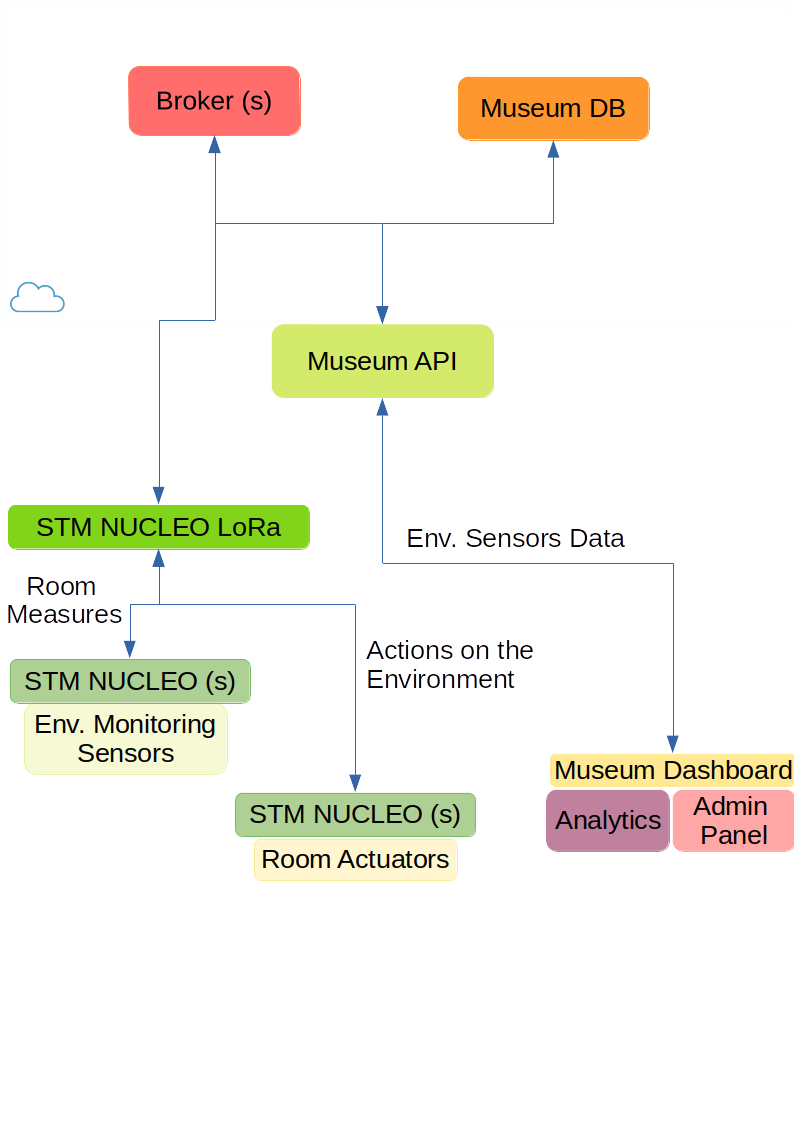
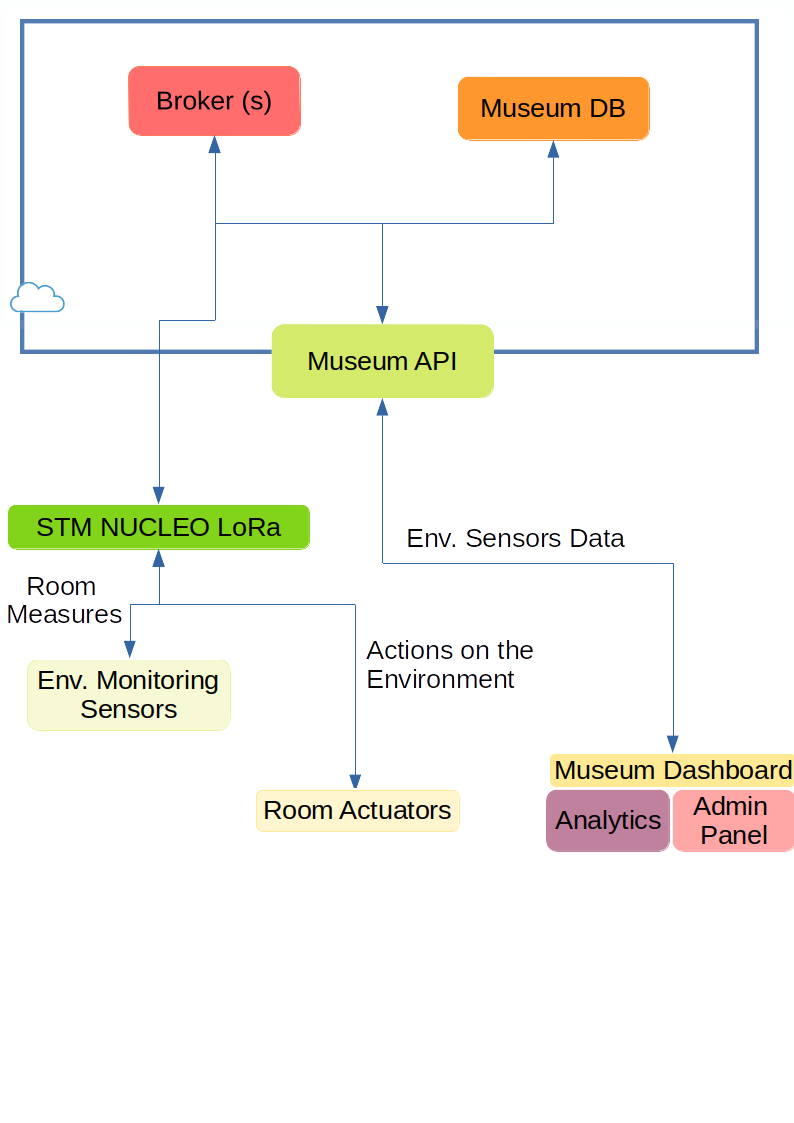
Arch changes

diff --git a/Evaluation.md b/Evaluation.md
@@ -6,7 +6,7 @@ This document is the second version of the Evaluation document for the SmartMuse
  <p align="center">
   <img src="img_new/competitors.PNG">
 </p>   
-Observing the competitors, the differences, the weak points and the strong points of our idea emerged. Many competitors have decided to add a module for the detection of light, we have deemed this feature useless as we will have a web platform to monitor climatic conditions asynchronously and with human in the loop. Some ideas use excell sheets and personal computers for data processing while we will rely on a special backend and obviously the cloud. Another difference is the ability to monitor air quality  a feature that could be added in the future. The idea that comes closest to ours includes the use of actuators for room cooling but unlike us, it always transmits data in real time, obviously using a much higher amount of data than ours. Another of our strengths is the use of technologies for the monitoring of loaned works of art, none of the previous ideas allows the curators of the pieces of art to remotely monitor the quality of the environment in which the piece is located.
+Observing the competitors, the differences, the weak points and the strong points of our idea emerged. Many competitors have decided to add a module for the detection of light, we have deemed this feature useless as we will have a web platform to monitor climatic conditions asynchronously and with human in the loop. Some ideas use Excell sheets and personal computers for data processing while we will rely on a special backend and obviously the cloud. Another difference is the ability to monitor air quality  a feature that could be added in the future. The idea that comes closest to ours includes the use of actuators for room cooling but unlike us, it always transmits data in real time, obviously using a much higher amount of data than ours. Another of our strengths is the use of technologies for the monitoring of loaned works of art, none of the previous ideas allows the curators of the pieces of art to remotely monitor the quality of the environment in which the piece is located.
 
 ## User Experience Evaluation
 To evaluate the user experience we have designed a prototype of the web dashboard (using Adobe XD Mockup software) and we have tested the usability of the product with some sample users.  
@@ -21,7 +21,7 @@ As a general metodology to evaluate the system we have decided to use [think-alo
 
 ## Technical Evaluation
 We have decided to realize a backend microservice architecture to allow modularity and to make system evolution simple so that the application will be as long-lasting as possible, tolerant to changes, integrable with other projects from the course easily.  
-Due to Covid-19, we will test the product from a technical point of view using IoT-Lab Testbed for the indoor environmental condition monitoring since it provieds full support to LoRaWAN and also gave access to boards with environmental sensors. Indeed we could also use it to test Bluetooth messaging between boards.   
+Due to Covid-19, we will test the product from a technical point of view using IoT-Lab Testbed for the indoor environmental condition monitoring since it provieds full support to LoRaWAN and also gave access to boards with environmental sensors. 
   
 According to the architecture we have described in the [Architecture file](Architecture.md) we are going to compare costs of a solution cloud based and a solution on premise as well as required hardware costs. We assume project is open source hence no employee to pay.
 ### Cloud Hosting Costs 
@@ -52,8 +52,8 @@ If  the traffic in the museum is limited, me might think to deploy the museum ga
 For this prof of concept we will deploy a MongoDB instance with Atlas M0 tier (free tier for lifetime) with physical limitation of shared RAM and CPU and storage limit of 512MB. The app will be hosted locally.
  
 ### Required Hardware
-We will use some STM NUCLEO family board. They allows to measure at the same time temperature, relative air humidity, air pressure(only some boards). Also we can either buy an [extension board](https://www.st.com/en/ecosystems/x-nucleo-idb05a1.html) to support BLE or we can buy a [board with BLE integrated](https://www.st.com/en/evaluation-tools/b-l475e-iot01a.html). This means that this hardware is very useful also to scale the project and integrate with other projects since bluetooth is the core technology of most projects. We estimate one environmental sensor per room (but we should be able to use one of it for two room either and optimize costs). Then we require only one board with both LoRa and Bluetooth support to communicate those measurements to the cloud.
-
+We will use some STM NUCLEO family board. They allows to measure at the same time temperature, relative air humidity, air pressure(only some boards). To Support loRaWAN we can use an [extension board](https://www.st.com/en/evaluation-tools/i-nucleo-lrwan1.html).  
+We estimate one board per room (but we should be able to use one of it for two room either and optimize costs).
 
 ### Final Notes on Storage Volume Estimation
 Here a quick explanation on how we have evaluated storage requirements. 

diff --git a/2nd_delivery.md b/2nd_delivery.md
@@ -2,7 +2,7 @@
 This document explain the criticism we received to the first version of the project and how we addressed them.
 
 ## Comments and Critics
-The main comment we received on the frist version of the project were:
+The main comment we received on the first version of the project were:
 1. Good the idea of a specific target. 
 2. The feature for this target (Curators) is pretty straightforward and not related to the main features for users.
 3. BluetoothLowEnergy is too common among projects.
@@ -14,9 +14,9 @@ The main comment we received on the frist version of the project were:
 We have decided to address them as follows:
 1. The target still remains specific (museum curators) but now visitors are not involved.
 2. We only focus on Curators and we try to provide useful and a bit more complex features.
-3. We still use it since we strongly believe that can make comunication energy saving. We do not use it as a beacon, like in the majority of other projects but we use it as wireless comunicaiton method for short range distances with low energy consumptions.
+3. We removed it since now it does not fit our need anymore.
 4. We made a pivot on the project and we made it the core feature.
-5. Removed, it was just speculation on possible feature developements.
+5. Removed, it was just speculation on possible feature developments.
 6. Now we focused on the IoT components, see [Architecture.md](Architecture.md)
 7. Same as the old one but with different parameters to reflect project changes.
 
@@ -25,15 +25,15 @@ Briefly, this project now aims to become a first step for the museum through a t
 
 ## Design, Architecture, Evaluation Changes
 Since the target became only the Heritage Curators, now all our personas reflect those changes. The storyboard also represent the new features of the project.   
-The architecture in its cloud composition does not changes much. Indeed we only removeed one service not required anymore. Since we focus only on environmental monitoring, we decided to add on-demand support for MQTT, so now the boards can thalk to TheThingsNetwork (TTN) in normal condition through LoRaWAN and can switch to MQTT using AWS IoT when the Curator need a more accurate view.   
+The architecture in its cloud composition does not changes much. Indeed we only removed one service not required anymore. Since we focus only on environmental monitoring, we decided to add on-demand support for MQTT, so now the boards can thalk to TheThingsNetwork (TTN) in normal condition through LoRaWAN and can switch to MQTT using AWS IoT when the Curator need a more accurate view.   
 The evaluation document reflects the changes in the data model and in the data volume of the application. However the methodology and parameters remain the same.
 
 ## Currently Implemented Functionalities
-At the moment it has been developed the museum API, able to talk with AWS IoT Broker and TTN, DB interaction is a work in progress. The dashboard is available as a mockup prototype. The Nucleo sensor reading part is ready too, the comunication process among boards and broker is work in progress. Actuators will be simulated since the impossibility to access to Museum spaces and know the available resources.
+At the moment it has been developed the museum API, able to talk with AWS IoT Broker and TTN, DB interaction is a work in progress. The dashboard is available as a mockup prototype. The Nucleo sensor reading part is ready too, the communication process among boards and broker is work in progress. Actuators will be simulated since the impossibility to access to Museum spaces and know the available resources.
 
 ## Through the 3rd Delivery
 At the end the PoC will fully support environmental monitoring and only emulate actuators to adjust indoor microclimate. In detail we will provide:
-1. temperature, humidiy and air pressure measurements feature; 
+1. temperature, humidity and air pressure measurements feature; 
 2. the possibility to send measures to the cloud with LoRaWAN using TheThingsNetwork infrastructure;
 3. the possibility to switch to MQTT on-demand and have real time monitoring and then switch back to LoRaWAN less frequent messages;
 4. persistent storage;

diff --git a/Architecture.md b/Architecture.md
@@ -12,7 +12,7 @@ The system can be easily integrated with already existing services. All those mi
 The system, even if very simple in the beginning, can evolve to be very complex with very little effort and provide a variety of features and improvements.
 
 ### Nucleo Boards
-The Nucleo boards used are of two types. One used as gateway inside the museum is thought to be chosen either with integrated BLE and LoRa or with extension boards, it is a matter of costs principally. The other boards will be in charge of collecting environmental sensors data and to send them to the Gateway board. The gateway board will aggregate and send to the Broker and, based on the received measures, will control the actuators. From the broker, the Middleware will be in charge of consuming them and store them in the DB. The API will provide a uniform interface to clients to either real-time data (from the broker) and historical data (from DB).
+The Nucleo boards used  will be in charge of collecting environmental sensors data and to send them to the Broker. Ideally, based on the received thresholds, they should also control the actuators to make the environment controlled. The board will read data with an acceptable frequency then aggregate and send them to the Broker. From the broker, the Middleware will be in charge of consuming them and store them in the DB. The API will provide a uniform interface to clients to either aggregated data(LoRaWAN)  real-time data (MQTT) and historical data (from DB).
 
 ### Broker
 The broker will just collect data from the boards when published. As initial solution we will propose to the museum to collect environmental data in aggregated from (for example avg min and max temperature of a given time range). Based on this proposal we decided to use TheThingsNetwork and use their sdk to consume those data given their open source and free-to-use philosophy. Also this choice allows us to choose an energy saving policy for communication according to our needs.  
@@ -35,5 +35,5 @@ Thanks to the dashboard, museum's administrator will be able to monitor environm
   <img height="50%" width="50%" src="./img_new/Netarch.png">
 </p>   
 
-The backend choice between on-premise and cloud solutions will be discussed in the [evaluation](Evaluation.md) part. As initial solution we will propose to the museum to collect environmental data in aggregated from (for example avg min and max temperature of a given time range). Based on this proposal we decided to use LoRaWAN as communication protocol. If more data are needed we might switch to mqtt/mqtt-sn and change the broker accordingly. Both The Things Network and AWS IoT Brokers will interact with the NodeJS middleware with MQTT protocol. The Middleware will also act as a control layer over the data model. Inside the museum, the idea is to use cheap boards with Bluetooth Low Energy (BLE) to interact with sensors/actuators and transmit values to the central board, while only one (or a bit more for redundancy and fail tolerance) will send values with LoRaWAN to the broker.  
+The backend choice between on-premise and cloud solutions will be discussed in the [evaluation](Evaluation.md) part. As initial solution we will propose to the museum to collect environmental data in aggregated from (for example avg min and max temperature of a given time range). Based on this proposal we decided to use LoRaWAN as communication protocol. If more data are needed we might switch to mqtt/mqtt-sn and change the broker accordingly. Both The Things Network and AWS IoT Brokers will interact with the NodeJS middleware with MQTT protocol. The Middleware will also act as a control layer over the data model. Inside the museum, the idea is to use cheap boards with LoRa support to interact with sensors/actuators and transmit values to the Cloud.  
 The dashboard will periodically interact with the middleware using HTTP(s).
